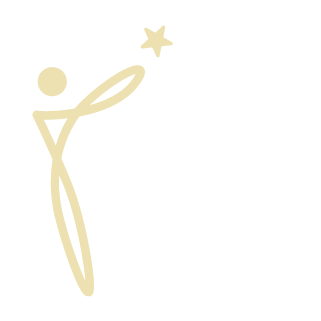
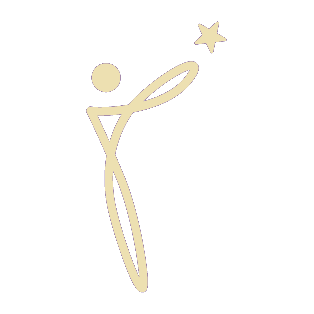
Corrigir simbolo da marca e headline do login
- Simbolo extraido corretamente da versao com fundo da logo: separacao
  por cor (creme vs branco) + componentes conexos isola figura e
  estrela, removendo o fundo roxo e as letras; identico a referencia
  enviada, com fundo transparente
- Headline ajustado para "Toda a montagem da temporada em um so
  painel" - o sistema cobre da montagem em diante, nao a operacao
  completa pre-montagem

Claude-Session: https://claude.ai/code/session_019hJxPnh9wNWtXqyPfoU93E

diff --git a/app/login/page.tsx b/app/login/page.tsx
@@ -63,7 +63,7 @@ export default async function LoginPage({ searchParams }: LoginPageProps) {
             </p>
 
             <h1 className="mt-4 text-4xl font-black leading-[1.15] tracking-tight">
-              Toda a operação de Natal em um só painel.
+              Toda a montagem da temporada em um só painel.
             </h1>
 
             <p className="mt-4 text-sm leading-7 text-white/70">